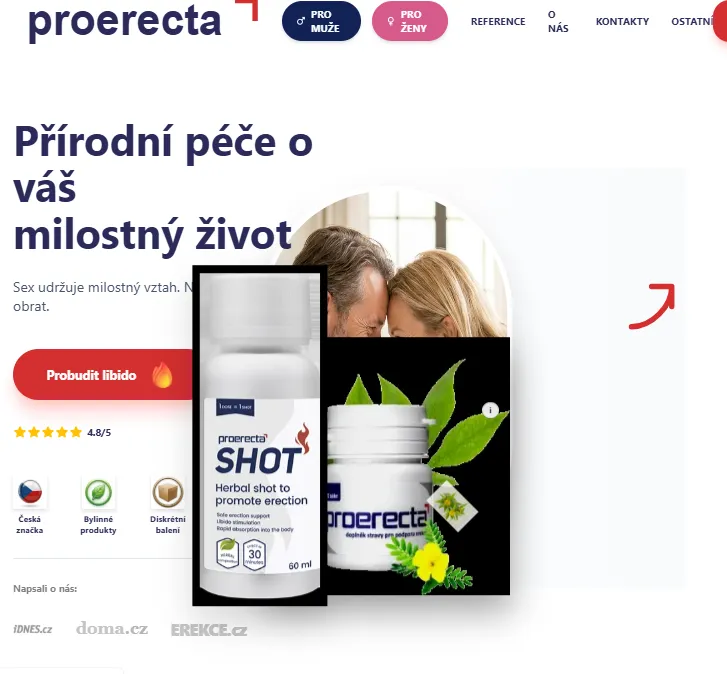
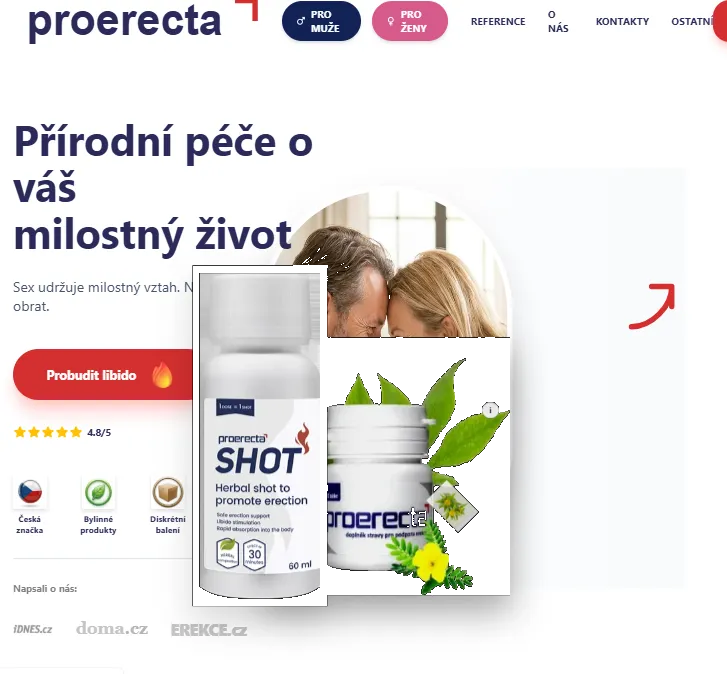
Checkpoint: Removed black background from product images, converted them to WebP, and implemented LCP/CLS optimizations including resource preloading and explicit image dimensions.

Changed region(s): [[0.2421, 0.3739, 0.7263, 0.9036], [0.575, 0.6543, 0.6052, 0.6855]]

diff --git a/client/src/components/HeroSection.tsx b/client/src/components/HeroSection.tsx
@@ -187,6 +187,8 @@ export function HeroSection() {
             className="w-full h-full object-cover object-[center_top]"
             fetchPriority="high"
             decoding="async"
+            width="800"
+            height="1200"
           />
           {/* Dark Overlay for readability */}
           <div className="absolute top-0 left-0 w-full h-full bg-[#2A2A5A]/40 mix-blend-multiply"></div>
@@ -305,6 +307,8 @@ export function HeroSection() {
                   className="w-full h-full object-cover object-[center_20%] scale-125 -scale-x-100"
                   fetchPriority="high"
                   decoding="async"
+                  width="550"
+                  height="550"
                 />
               </div>
 

diff --git a/client/index.html b/client/index.html
@@ -18,6 +18,8 @@
     <title>Silné Libido | Magazín o mužském zdraví a podpora erekce</title>
     <meta name="description" content="Odborný magazín o mužském zdraví, erekci a libidu. Tipy, rady a recenze ověřených produktů pro pevnou erekci. Oficiální partner Proerecta." />
     <link rel="preconnect" href="%VITE_ANALYTICS_ENDPOINT%" />
+    <link rel="preload" as="image" href="/images/hero-couple.webp" type="image/webp" fetchpriority="high" />
+    <link rel="preload" as="image" href="/images/proerecta-shot-trans.webp" type="image/webp" />
     <script type="application/ld+json">
     {
       "@context": "https://schema.org/",
